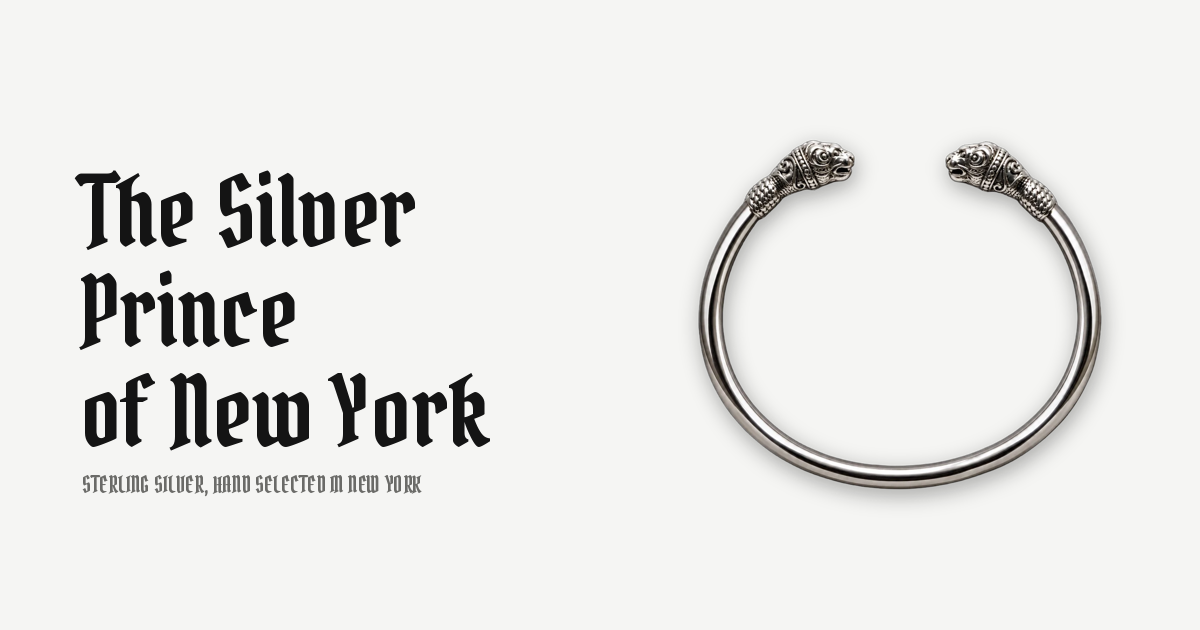
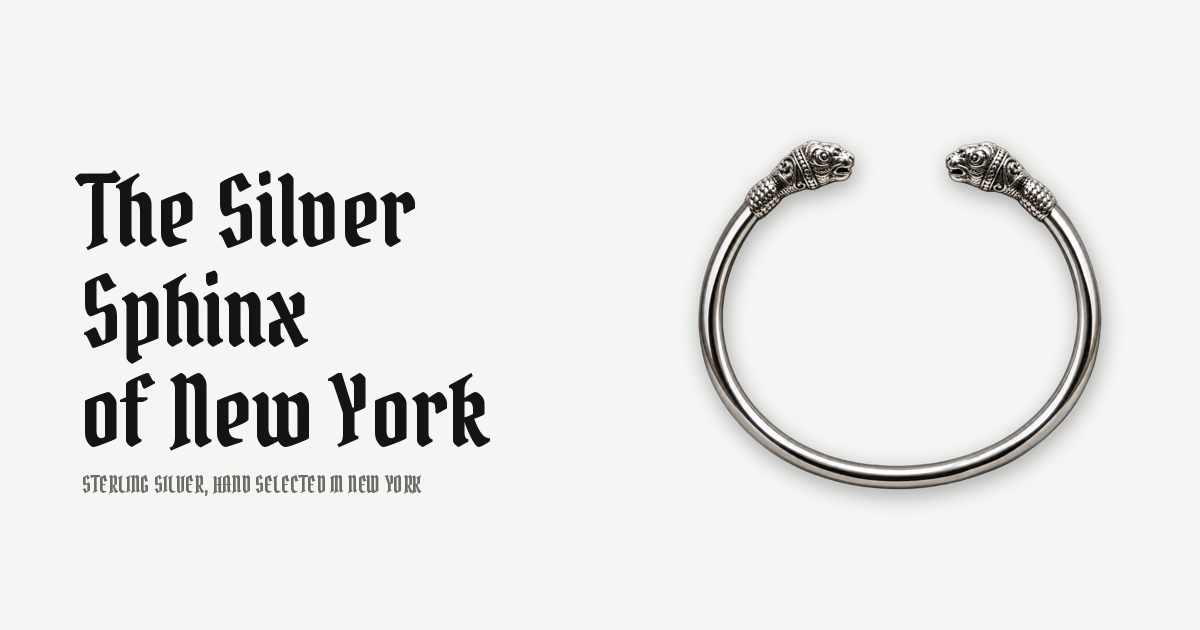
Rebrand to The Silver Sphinx of New York

Changed region(s): [[0.0617, 0.4222, 0.2775, 0.573]]

diff --git a/src/app/page.tsx b/src/app/page.tsx
@@ -25,7 +25,7 @@ export default function Home() {
       <section className="mx-auto grid max-w-[1400px] items-center gap-8 px-4 pb-16 pt-6 md:min-h-[calc(100dvh-72px)] md:grid-cols-[5fr_7fr] md:gap-12 md:px-8 md:pb-24 md:pt-10">
         <div className="order-2 md:order-1">
           <h1 className="wordmark text-[56px] leading-[0.92] sm:text-7xl md:text-[64px] lg:text-[88px] xl:text-[104px]">
-            The Silver<br />Prince<br />of New York
+            The Silver<br />Sphinx<br />of New York
           </h1>
           <p className="mt-6 max-w-sm text-base text-muted md:text-lg">
             Sterling silver, hand selected in the city. Cuffs, chains, pendants and pins with weight to them.
@@ -72,7 +72,7 @@ export default function Home() {
             </Reveal>
             <Reveal delay={0.1}>
               <p className="max-w-sm text-base text-muted md:text-lg">
-                Every piece is sterling checked by hand before it goes out. Ask the Prince for this piece&apos;s story.
+                Every piece is sterling checked by hand before it goes out. Ask the Sphinx for this piece&apos;s story.
               </p>
               <Link href="/about" className="label link-line mt-6 inline-flex items-center gap-2">
                 About the house <ArrowRight size={14} />
@@ -110,7 +110,7 @@ export default function Home() {
           {Array.from({ length: 2 }).map((_, k) => (
             <div key={k} className="flex shrink-0">
               {Array.from({ length: 6 }).map((_, i) => (
-                <span key={i} className="wordmark px-8 text-5xl md:text-7xl">The Silver Prince of New York</span>
+                <span key={i} className="wordmark px-8 text-5xl md:text-7xl">The Silver Sphinx of New York</span>
               ))}
             </div>
           ))}

diff --git a/src/app/about/page.tsx b/src/app/about/page.tsx
@@ -10,13 +10,13 @@ export default function AboutPage() {
       <section className="mx-auto max-w-[1400px] px-4 py-12 md:px-8 md:py-20">
         <h1 className="wordmark max-w-4xl text-6xl leading-[0.95] md:text-8xl">Silver, chosen by hand in New York.</h1>
         <p className="mt-8 max-w-xl text-lg text-muted md:text-xl">
-          The Silver Prince of New York is one person with a good eye and a strong opinion. Every piece here was hand picked and chosen carefully before it earned a spot in the collection.
+          The Silver Sphinx of New York is one person with a good eye and a strong opinion. Every piece here was hand picked and chosen carefully before it earned a spot in the collection.
         </p>
       </section>
 
       <section className="mx-auto max-w-[1400px] border-t border-line px-4 py-16 md:px-8 md:py-24">
         <Reveal>
-          <h2 className="text-3xl font-medium tracking-tight md:text-5xl">The Prince&apos;s Beginning</h2>
+          <h2 className="text-3xl font-medium tracking-tight md:text-5xl">The Sphinx&apos;s Beginning</h2>
           <p className="mt-6 max-w-xl text-lg text-muted md:text-xl">
             Close to ten years on 47th Street. He started in the Diamond District doing the work nobody sees, sorting, grading, running stones between benches, and stayed long enough to learn how the whole block works. Today he buys, sells and makes custom pieces from the same street. If you want to know what something is really worth, or what it would take to make it, ask him.
           </p>

diff --git a/src/components/Footer.tsx b/src/components/Footer.tsx
@@ -7,7 +7,7 @@ export function Footer() {
     <footer className="border-t border-line">
       <div className="mx-auto grid max-w-[1400px] gap-10 px-4 py-12 md:grid-cols-[1fr_auto_1fr] md:items-end md:px-8">
         <div>
-          <p className="wordmark text-4xl">Silver Prince</p>
+          <p className="wordmark text-4xl">Silver Sphinx</p>
           <p className="mt-3 max-w-xs text-sm text-muted">Sterling silver, hand selected in New York.</p>
         </div>
         <nav className="grid grid-cols-2 gap-x-12 gap-y-3 md:justify-self-center" aria-label="Footer">
@@ -24,7 +24,7 @@ export function Footer() {
         </div>
       </div>
       <div className="border-t border-line">
-        <p className="label mx-auto max-w-[1400px] px-4 py-4 text-muted md:px-8">&copy; {new Date().getFullYear()} The Silver Prince of New York. All rights reserved.</p>
+        <p className="label mx-auto max-w-[1400px] px-4 py-4 text-muted md:px-8">&copy; {new Date().getFullYear()} The Silver Sphinx of New York. All rights reserved.</p>
       </div>
     </footer>
   );

diff --git a/src/app/layout.tsx b/src/app/layout.tsx
@@ -12,9 +12,9 @@ const siteUrl = process.env.NEXT_PUBLIC_SITE_URL ?? (process.env.VERCEL_URL ? `h
 
 export const metadata: Metadata = {
   metadataBase: new URL(siteUrl),
-  title: { default: "The Silver Prince of New York", template: "%s | The Silver Prince of New York" },
+  title: { default: "The Silver Sphinx of New York", template: "%s | The Silver Sphinx of New York" },
   description: "Sterling silver jewelry, hand selected in New York. Cuffs, chains, pendants, rings and brooches. Text to ask about any piece.",
-  openGraph: { title: "The Silver Prince of New York", description: "Sterling silver jewelry, hand selected in New York.", type: "website" },
+  openGraph: { title: "The Silver Sphinx of New York", description: "Sterling silver jewelry, hand selected in New York.", type: "website" },
 };
 
 export const viewport: Viewport = { themeColor: [{ media: "(prefers-color-scheme: light)", color: "#f5f5f3" }, { media: "(prefers-color-scheme: dark)", color: "#131313" }] };

diff --git a/src/app/contact/page.tsx b/src/app/contact/page.tsx
@@ -7,7 +7,7 @@ export const metadata: Metadata = { title: "Contact" };
 export default function ContactPage() {
   return (
     <section className="mx-auto max-w-[1400px] px-4 py-16 md:px-8 md:py-28">
-      <h1 className="text-4xl font-medium tracking-tight md:text-6xl">Talk to the Prince</h1>
+      <h1 className="text-4xl font-medium tracking-tight md:text-6xl">Talk to the Sphinx</h1>
       <a href={TEL} className="wordmark mt-8 block text-5xl transition-colors hover:text-muted sm:text-7xl md:text-8xl">{PHONE_DISPLAY}</a>
       <div className="mt-10 flex flex-col items-start gap-8">
         <a href={smsLink("Hi, I saw your site and have a question.")} className="btn btn-solid w-full sm:w-auto sm:min-w-[240px]"><ChatCircle size={16} /> Contact</a>

diff --git a/src/components/Nav.tsx b/src/components/Nav.tsx
@@ -23,8 +23,8 @@ export function Nav() {
       <div className="mx-auto max-w-[1400px] px-4 md:grid md:h-[72px] md:grid-cols-[1fr_auto_1fr] md:items-center md:px-8">
         <nav className="hidden items-center gap-6 md:flex" aria-label="Primary">{links}</nav>
         <div className="flex h-14 items-center justify-center md:h-auto">
-          <Link href="/" className="wordmark text-[28px] leading-none md:text-[32px]" aria-label="The Silver Prince of New York, home">
-            Silver Prince
+          <Link href="/" className="wordmark text-[28px] leading-none md:text-[32px]" aria-label="The Silver Sphinx of New York, home">
+            Silver Sphinx
           </Link>
         </div>
         <div className="flex items-center justify-end">

diff --git a/src/lib/products.ts b/src/lib/products.ts
@@ -1,4 +1,4 @@
-// Product catalog for The Silver Prince of New York.
+// Product catalog for The Silver Sphinx of New York.
 // No prices on the site: every piece is negotiated over text or a call.
 // `images` are paths under /public/products, generated from the cleaned photos.
 
